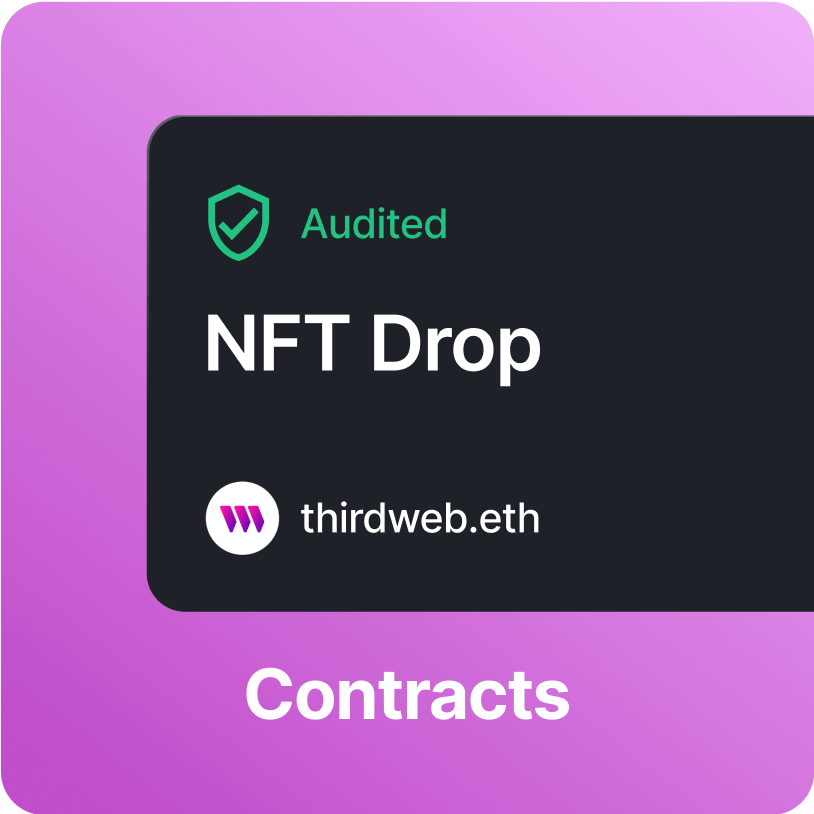
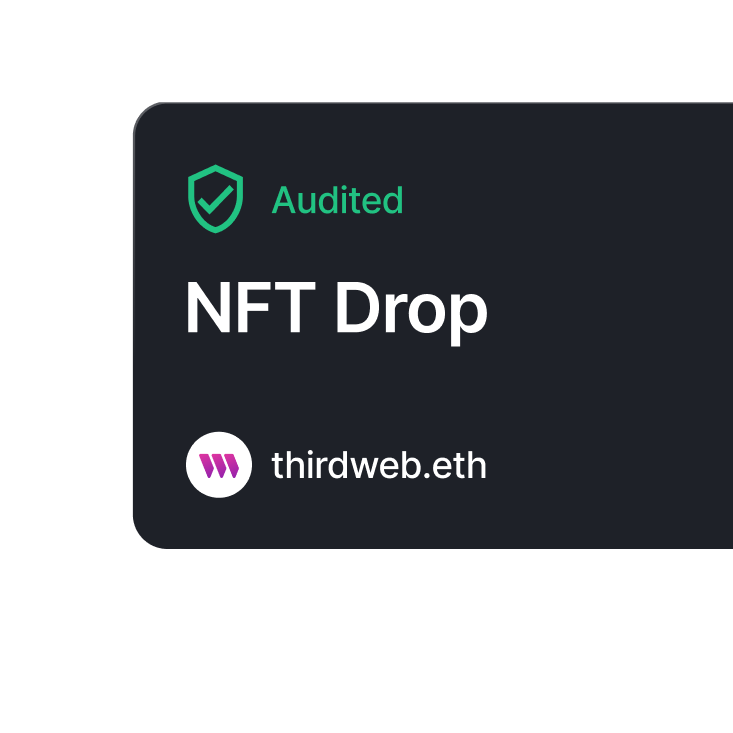
card hover improvements landing page (#1951)
* cards landing page

* make gray stroke

* quick link fix

diff --git a/components/homepage/sections/HeroSection.tsx b/components/homepage/sections/HeroSection.tsx
@@ -1,6 +1,7 @@
 import { AnimatedCLICommand } from "../AnimatedCLICommand/AnimatedCLICommand";
 import { Aurora } from "../Aurora";
 import {
+  Box,
   Flex,
   Grid,
   GridItem,
@@ -21,18 +22,23 @@ export const HeroSection = () => {
     {
       src: require("public/assets/landingpage/homepage-wallets.png"),
       href: "/connect",
+      background: "linear-gradient(218deg, #95BBF2 -6.46%, #3385FF 93.97%)",
     },
     {
       src: require("public/assets/landingpage/homepage-contracts.png"),
-      href: "/explore",
+      href: "/smart-contracts",
+      background: "linear-gradient(218deg, #F5B7FF -6.46%, #C04DCA 93.97%)",
     },
     {
       src: require("public/assets/landingpage/homepage-payments.png"),
       href: "/checkout",
+      background:
+        "linear-gradient(43deg, #2E938C 14.8%, #4BB8B1 63.81%, #B8EEE8 104.19%)",
     },
     {
       src: require("public/assets/landingpage/homepage-infra.png"),
       href: "/engine",
+      background: "linear-gradient(218deg, #946CBA -6.46%, #9444D3 93.97%)",
     },
   ];
 
@@ -140,21 +146,20 @@ export const HeroSection = () => {
             return (
               <GridItem key={index} maxW={{ base: "100%", lg: "180px" }}>
                 <ChakraNextLink href={image.href}>
-                  <ChakraNextImage
-                    alt=""
-                    w={96}
-                    src={image.src}
-                    priority
-                    quality={95}
-                    justifySelf="flex-end"
+                  <Box
                     transition="border-color 200ms ease, box-shadow 200ms ease, transform 200ms ease"
                     _hover={{
                       borderColor: "blue.500",
-                      boxShadow: "0 0 16px hsl(215deg 100% 60% / 30%)",
-                      transform: "scale(1.01)",
+                      transform: "scale(1.05)",
+                      boxShadow: "0 0 20px hsl(215deg 100% 60% / 50%)",
                     }}
-                    borderRadius={"12px"}
-                  />
+                    borderWidth="thin"
+                    background={image.background}
+                    borderRadius="lg"
+                    borderColor="borderColor"
+                  >
+                    <ChakraNextImage alt="" src={image.src} />
+                  </Box>
                 </ChakraNextLink>
               </GridItem>
             );
